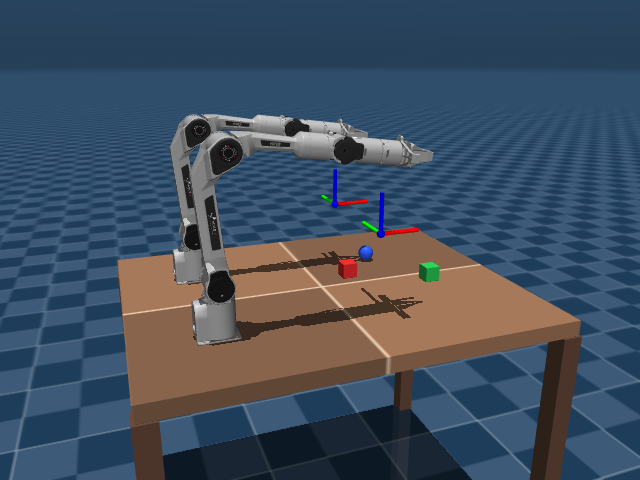
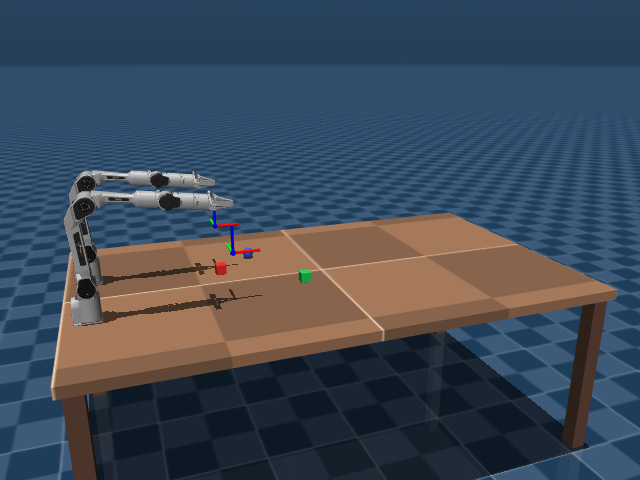
auto(2026-07-17_20:16:28): assets/piper/scene_dual.xml, docs/piper_dual_front.png, docs/piper_dual_side.png, docs/piper_dual_top.png, scripts/render_scene.py

diff --git a/scripts/render_scene.py b/scripts/render_scene.py
@@ -38,12 +38,12 @@ if __name__ == "__main__":
     # 单臂
     render_scene(os.path.join(ASSETS, "scene.xml"), 120, -25, 1.2,
                  [0.2, 0, 0.35], "piper_home_front.png")
-    # 双臂：斜前方
-    render_scene(os.path.join(ASSETS, "scene_dual.xml"), 110, -22, 1.6,
-                 [0.3, 0, 0.9], "piper_dual_front.png")
+    # 双臂：斜前方（桌子 2m×1.2m，相机框住整桌）
+    render_scene(os.path.join(ASSETS, "scene_dual.xml"), 110, -22, 2.6,
+                 [0.9, 0, 0.8], "piper_dual_front.png")
     # 双臂：俯视
-    render_scene(os.path.join(ASSETS, "scene_dual.xml"), 110, -50, 1.9,
-                 [0.3, 0, 0.7], "piper_dual_top.png")
+    render_scene(os.path.join(ASSETS, "scene_dual.xml"), 110, -55, 3.2,
+                 [0.9, 0, 0.7], "piper_dual_top.png")
     # 双臂：侧视
-    render_scene(os.path.join(ASSETS, "scene_dual.xml"), 70, -18, 1.5,
-                 [0.3, 0, 0.85], "piper_dual_side.png")
+    render_scene(os.path.join(ASSETS, "scene_dual.xml"), 70, -18, 2.4,
+                 [0.9, 0, 0.85], "piper_dual_side.png")